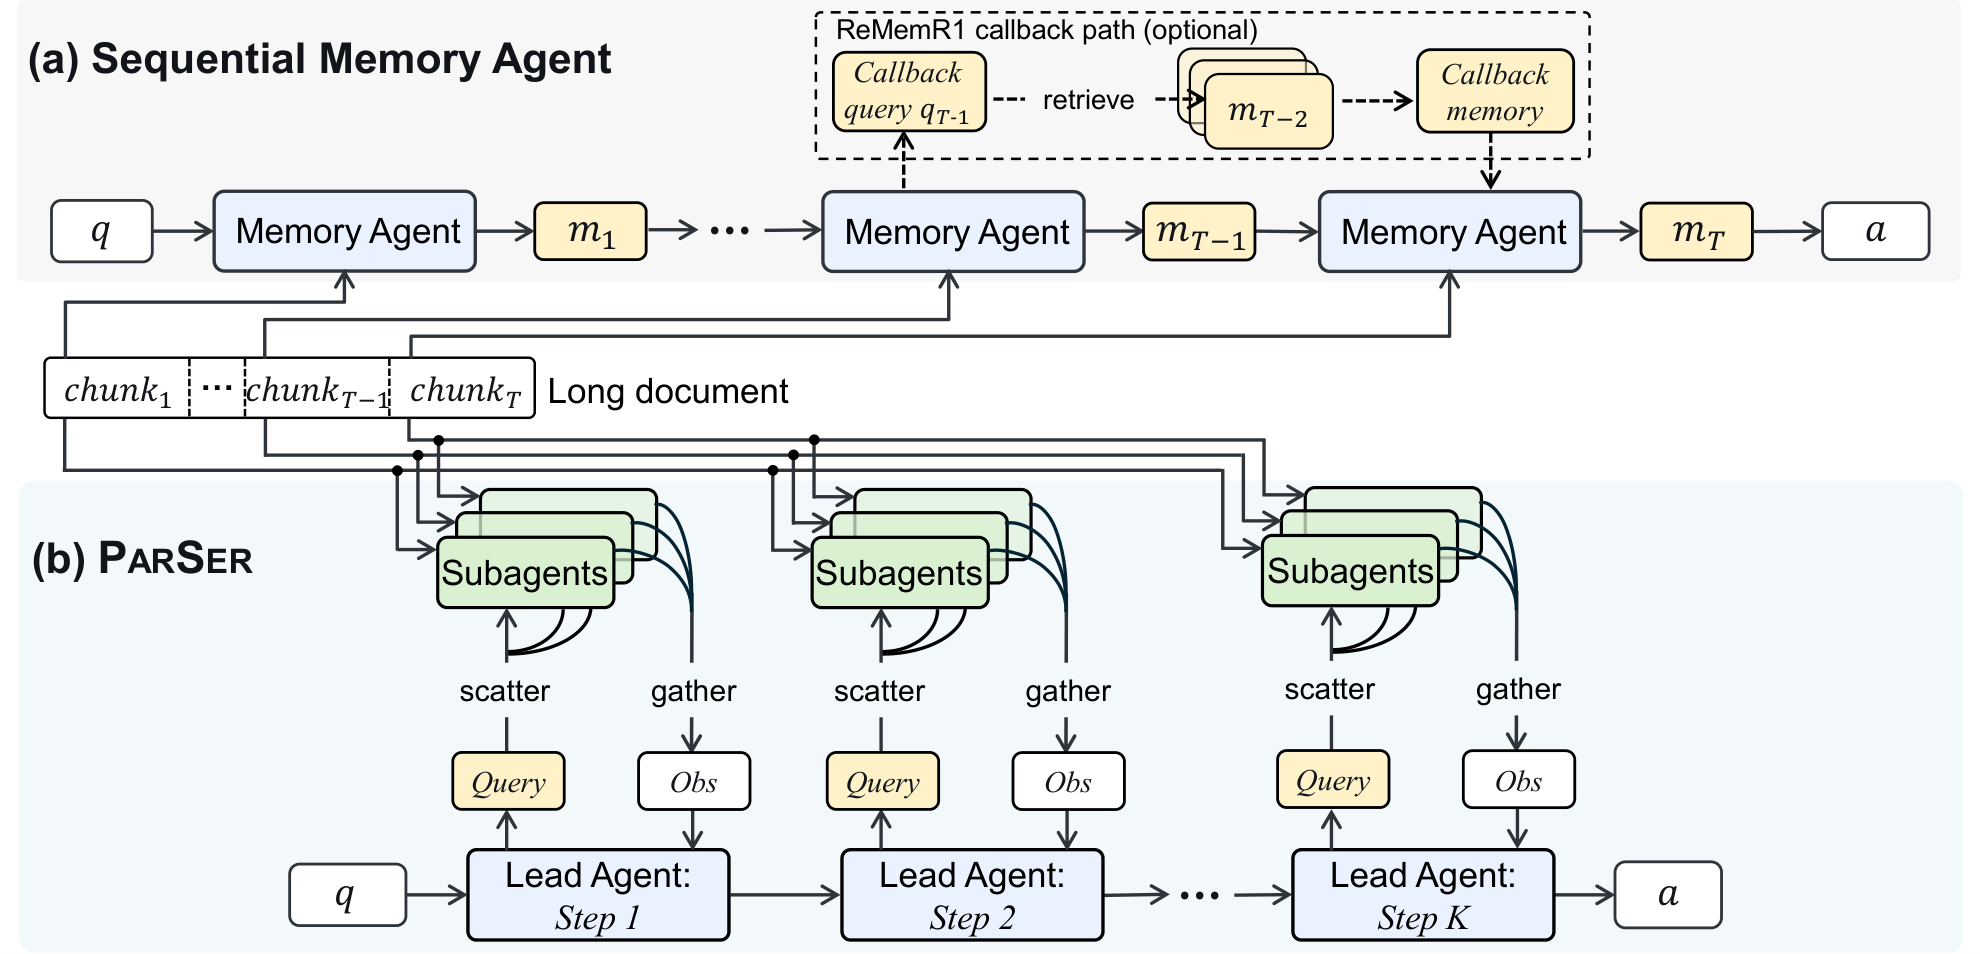
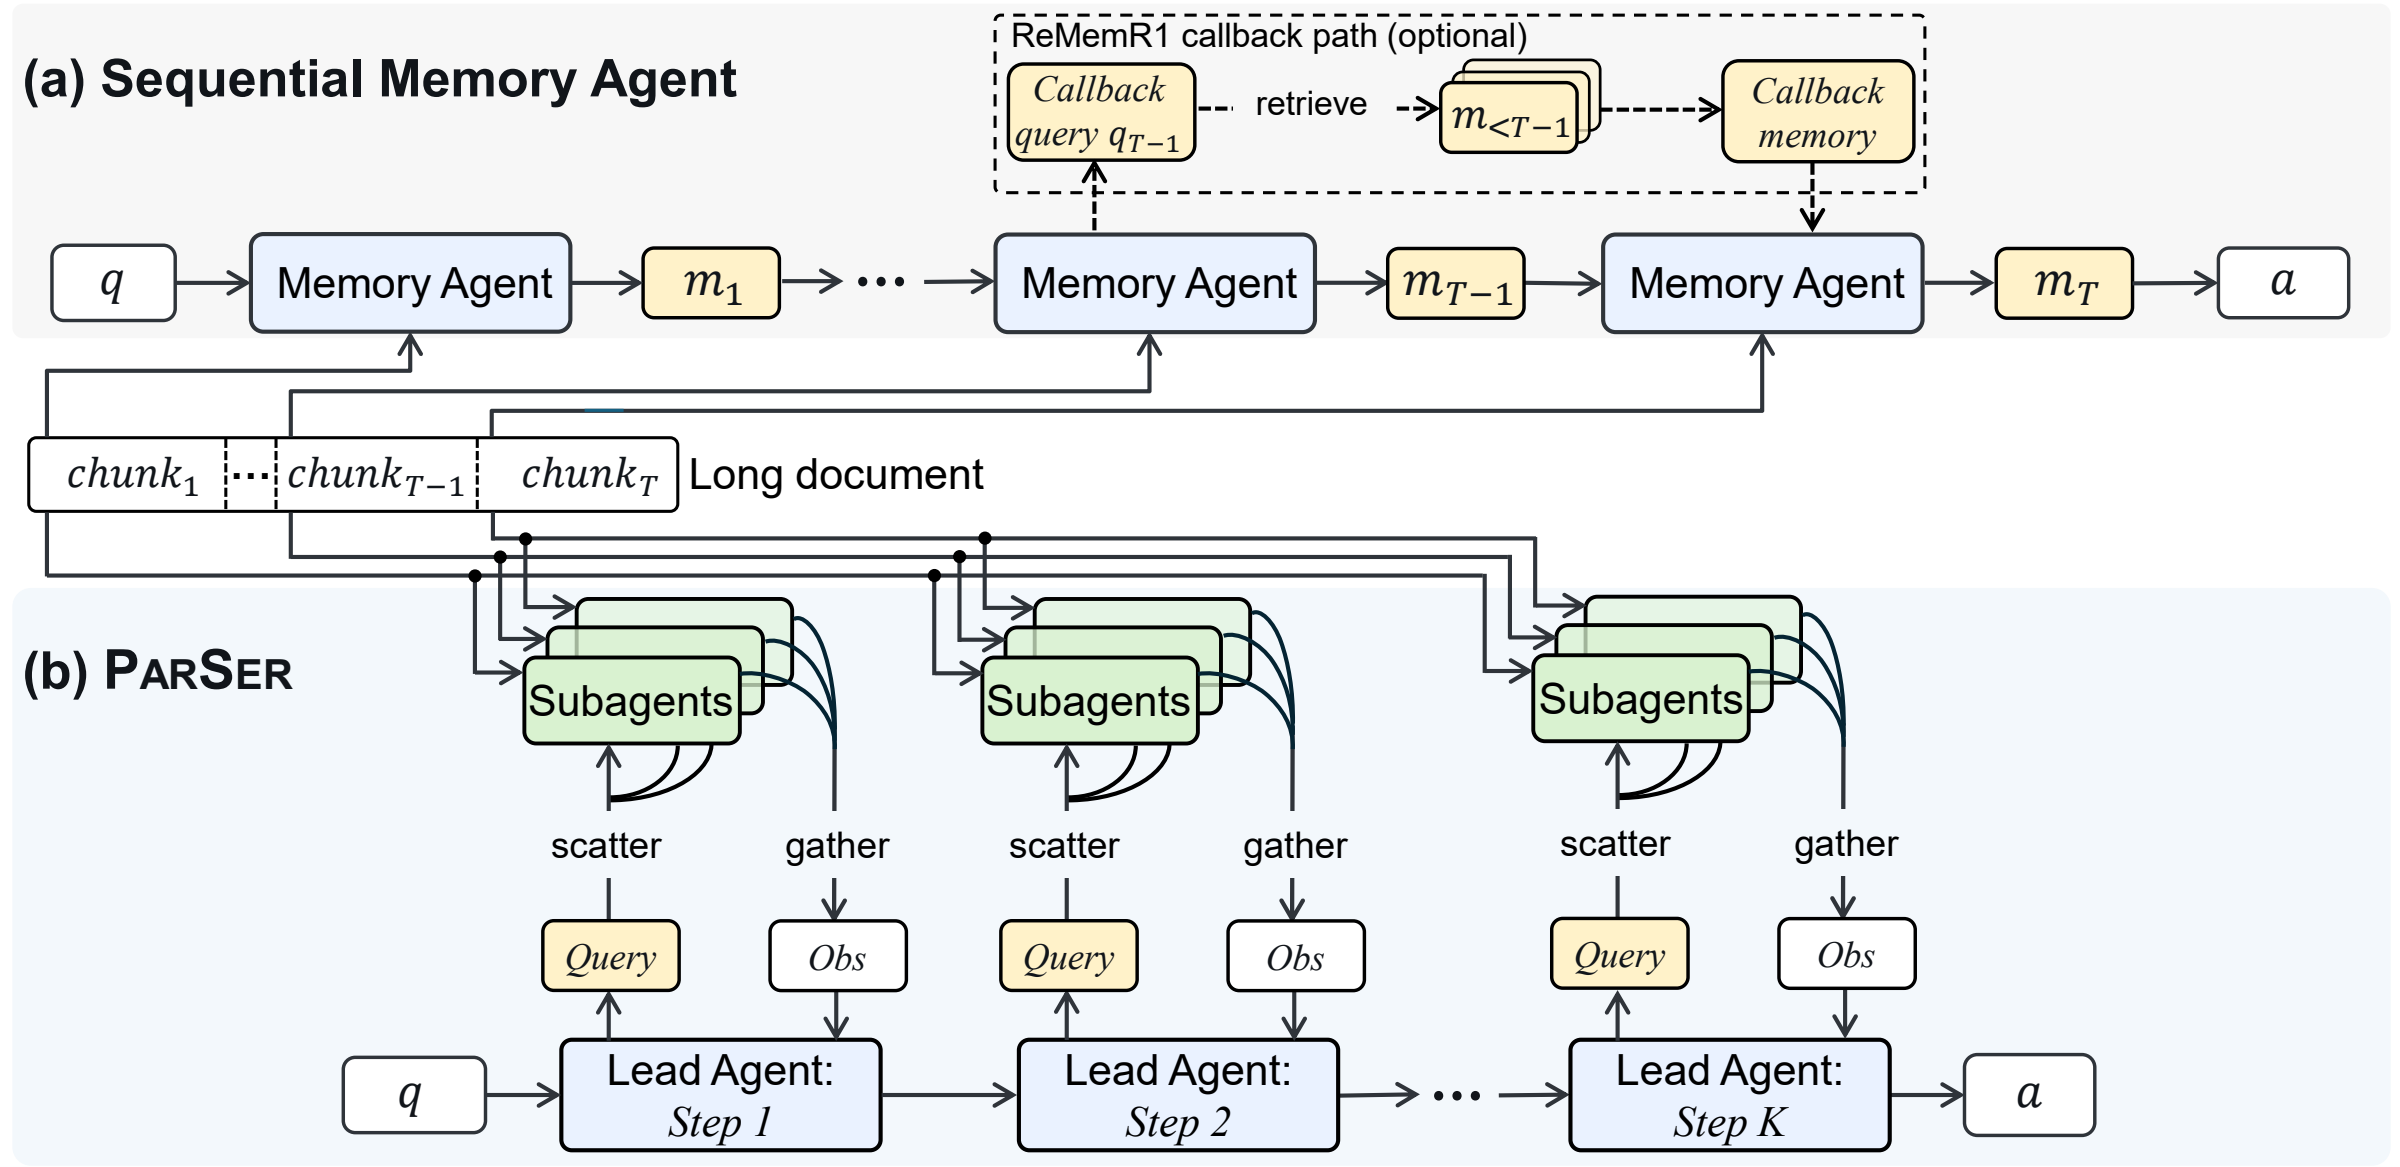
Update the method figure and correct MemAgent inference-step counts.

diff --git a/zh.html b/zh.html
@@ -605,11 +605,11 @@
                 MemAgent 一块接一块地更新记忆，因此其顺序深度（inference step）随文档增长。PARSER 在同一轮阅读所有块；只有主智能体的问题驱动轮次保持串行。
               </p>
               <p>
-                每一长度都使用同一组 HotpotQA 题，因此 PARSER 的步数从 7K 到 896K token 都接近 4，而 MemAgent 从 3.1 升到 177。
+                每一长度都使用同一组 HotpotQA 题，因此 PARSER 的步数从 7K 到 896K token 都接近 4，而 MemAgent 从 3 升到 183.58。
               </p>
               <div class="step-legend">
                 <span><i class="parser-key"></i><b>PARSER</b> 每个长度约 4 步</span>
-                <span><i class="memagent-step-key"></i><b>MemAgent</b> 3.1 → 177 步</span>
+                <span><i class="memagent-step-key"></i><b>MemAgent</b> 3 → 183.58 步</span>
               </div>
             </div>
             <figure class="step-chart-card">
@@ -621,7 +621,7 @@
               >
                 <title id="step-title">MemAgent 与 PARSER 的推理步数随上下文长度变化</title>
                 <desc id="step-desc">
-                  MemAgent 的步数从 7K token 的 3.1 增至 896K token 的 177。PARSER 在每个长度都接近 4 步。
+                  MemAgent 的步数从 7K token 的 3 增至 896K token 的 183.58。PARSER 在每个长度都接近 4 步。
                 </desc>
                 <defs>
                   <linearGradient id="step-parser-line" x1="0" x2="1">
@@ -646,21 +646,21 @@
                 <text class="axis-title y-axis-title" transform="rotate(-90 16 156)" x="16" y="156">Inference step</text>
                 <path
                   class="step-line memagent"
-                  d="M88 270.4 L181 268.8 L274 265.8 L367 259.1 L460 245.4 L553 218.1 L646 166.6 L739 65.3"
+                  d="M88 270.46 L181 269.13 L274 265.68 L367 258.83 L460 245.57 L553 218.67 L646 164.90 L739 57.38"
                 />
                 <path
                   class="step-line parser"
                   d="M88 269.2 L181 269.2 L274 269.2 L367 269.2 L460 269.4 L553 269.3 L646 269.3 L739 269.4"
                 />
                 <g class="step-points memagent-points">
-                  <circle cx="88" cy="270.4" r="4.5" />
-                  <circle cx="181" cy="268.8" r="4.5" />
-                  <circle cx="274" cy="265.8" r="4.5" />
-                  <circle cx="367" cy="259.1" r="4.5" />
-                  <circle cx="460" cy="245.4" r="4.5" />
-                  <circle cx="553" cy="218.1" r="4.5" />
-                  <circle cx="646" cy="166.6" r="4.5" />
-                  <circle cx="739" cy="65.3" r="5" />
+                  <circle cx="88" cy="270.46" r="4.5" />
+                  <circle cx="181" cy="269.13" r="4.5" />
+                  <circle cx="274" cy="265.68" r="4.5" />
+                  <circle cx="367" cy="258.83" r="4.5" />
+                  <circle cx="460" cy="245.57" r="4.5" />
+                  <circle cx="553" cy="218.67" r="4.5" />
+                  <circle cx="646" cy="164.90" r="4.5" />
+                  <circle cx="739" cy="57.38" r="5" />
                 </g>
                 <g class="step-points parser-points">
                   <circle cx="88" cy="269.2" r="4.5" />
@@ -673,7 +673,7 @@
                   <circle cx="739" cy="269.4" r="5" />
                 </g>
                 <g class="step-values">
-                  <text class="mem-value" x="739" y="52">177</text>
+                  <text class="mem-value" x="739" y="44">183.58</text>
                   <text class="parser-value" x="739" y="258">≈4</text>
                 </g>
                 <g class="speedup-x-labels">

diff --git a/index.html b/index.html
@@ -663,11 +663,11 @@
               </p>
               <p>
                 The same HotpotQA questions are used at every length, so PARSER's step count stays
-                near 4—from 7K through 896K tokens—while MemAgent climbs from 3.1 to 177.
+                near 4—from 7K through 896K tokens—while MemAgent climbs from 3 to 183.58.
               </p>
               <div class="step-legend">
                 <span><i class="parser-key"></i><b>PARSER</b> ≈4 steps at every length</span>
-                <span><i class="memagent-step-key"></i><b>MemAgent</b> 3.1 → 177 steps</span>
+                <span><i class="memagent-step-key"></i><b>MemAgent</b> 3 → 183.58 steps</span>
               </div>
             </div>
             <figure class="step-chart-card">
@@ -679,7 +679,7 @@
               >
                 <title id="step-title">Inference step counts of MemAgent and PARSER by context length</title>
                 <desc id="step-desc">
-                  MemAgent steps grow from 3.1 at 7K tokens to 177 at 896K tokens.
+                  MemAgent steps grow from 3 at 7K tokens to 183.58 at 896K tokens.
                   PARSER stays near 4 steps at every length.
                 </desc>
                 <defs>
@@ -705,21 +705,21 @@
                 <text class="axis-title y-axis-title" transform="rotate(-90 16 156)" x="16" y="156">Inference step</text>
                 <path
                   class="step-line memagent"
-                  d="M88 270.4 L181 268.8 L274 265.8 L367 259.1 L460 245.4 L553 218.1 L646 166.6 L739 65.3"
+                  d="M88 270.46 L181 269.13 L274 265.68 L367 258.83 L460 245.57 L553 218.67 L646 164.90 L739 57.38"
                 />
                 <path
                   class="step-line parser"
                   d="M88 269.2 L181 269.2 L274 269.2 L367 269.2 L460 269.4 L553 269.3 L646 269.3 L739 269.4"
                 />
                 <g class="step-points memagent-points">
-                  <circle cx="88" cy="270.4" r="4.5" />
-                  <circle cx="181" cy="268.8" r="4.5" />
-                  <circle cx="274" cy="265.8" r="4.5" />
-                  <circle cx="367" cy="259.1" r="4.5" />
-                  <circle cx="460" cy="245.4" r="4.5" />
-                  <circle cx="553" cy="218.1" r="4.5" />
-                  <circle cx="646" cy="166.6" r="4.5" />
-                  <circle cx="739" cy="65.3" r="5" />
+                  <circle cx="88" cy="270.46" r="4.5" />
+                  <circle cx="181" cy="269.13" r="4.5" />
+                  <circle cx="274" cy="265.68" r="4.5" />
+                  <circle cx="367" cy="258.83" r="4.5" />
+                  <circle cx="460" cy="245.57" r="4.5" />
+                  <circle cx="553" cy="218.67" r="4.5" />
+                  <circle cx="646" cy="164.90" r="4.5" />
+                  <circle cx="739" cy="57.38" r="5" />
                 </g>
                 <g class="step-points parser-points">
                   <circle cx="88" cy="269.2" r="4.5" />
@@ -732,7 +732,7 @@
                   <circle cx="739" cy="269.4" r="5" />
                 </g>
                 <g class="step-values">
-                  <text class="mem-value" x="739" y="52">177</text>
+                  <text class="mem-value" x="739" y="44">183.58</text>
                   <text class="parser-value" x="739" y="258">≈4</text>
                 </g>
                 <g class="speedup-x-labels">
